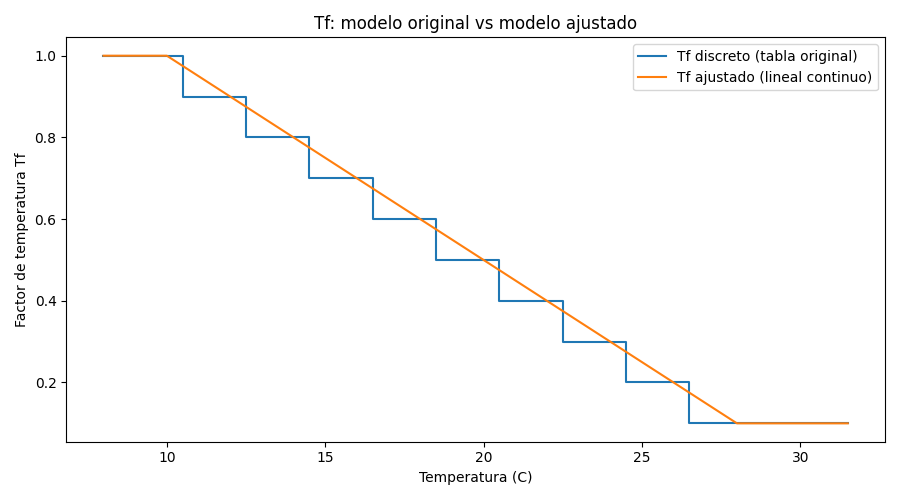
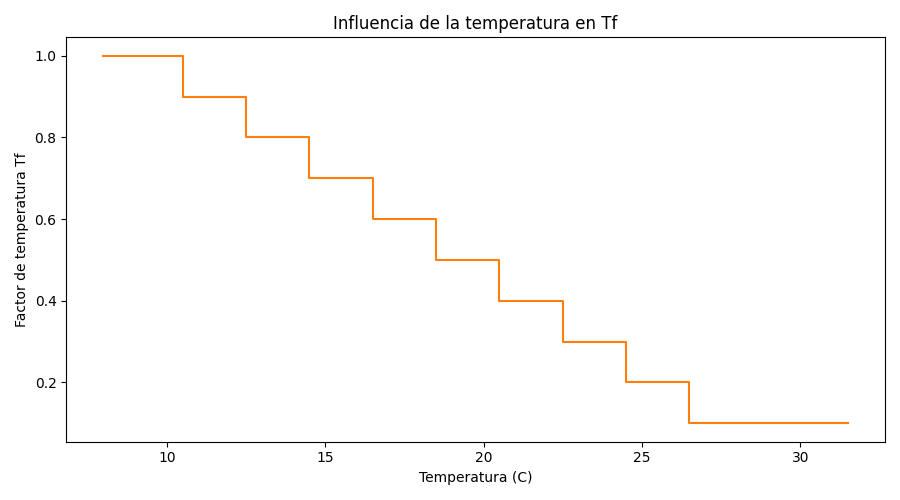
fix(unidad1): usar un unico modelo con la formula y tabla dadas por el docente

diff --git a/Unidad1/practica01/view.py b/Unidad1/practica01/view.py
@@ -6,7 +6,7 @@ recibe los HourRecord ya procesados y los presenta.
 import matplotlib.pyplot as plt
 import numpy as np
 
-from model import temperature_factor_discrete, temperature_factor_continuous
+from model import temperature_factor
 
 
 class ConsoleView:
@@ -25,23 +25,19 @@ class ConsoleView:
 
 
 class ChartView:
-    """Genera las graficas que pide la guia (punto 6: 'Graficas ... agregar')."""
+    """Genera las graficas que pide la guia (punto 6)."""
 
     @staticmethod
-    def plot_index(records_by_label, output_file):
-        """
-        Grafica la evolucion del indice I a lo largo del dia, comparando
-        el modelo original contra el ajustado, con lineas punteadas en
-        los umbrales de la tabla de reglas (0.40 / 0.60 / 0.75).
-        """
+    def plot_index(records, output_file):
+        """Grafica la evolucion del indice I a lo largo del dia, con los umbrales de la tabla de reglas."""
+        hours = [r.hour for r in records]
+        indices = [r.index for r in records]
+
         plt.figure(figsize=(9, 5))
-        for label, records in records_by_label.items():
-            hours = [r.hour for r in records]
-            indices = [r.index for r in records]
-            plt.plot(hours, indices, marker="o", label=label)
-        plt.axhline(0.40, linestyle="--", linewidth=0.8, color="gray")
-        plt.axhline(0.60, linestyle="--", linewidth=0.8, color="gray")
-        plt.axhline(0.75, linestyle="--", linewidth=0.8, color="gray")
+        plt.plot(hours, indices, marker="o", color="tab:blue", label="Indice I")
+        plt.axhline(0.40, linestyle="--", linewidth=0.8, color="gray", label="Umbral 0.40")
+        plt.axhline(0.60, linestyle="--", linewidth=0.8, color="gray", label="Umbral 0.60")
+        plt.axhline(0.75, linestyle="--", linewidth=0.8, color="gray", label="Umbral 0.75")
         plt.xlabel("Hora")
         plt.ylabel("Indice I")
         plt.title("Evolucion del indice de probabilidad de lluvia")
@@ -52,21 +48,15 @@ class ChartView:
 
     @staticmethod
     def plot_temperature_factor(output_file):
-        """
-        Grafica Tf en funcion de la temperatura para comparar visualmente
-        el modelo discreto (escalones, tabla original) contra el modelo
-        ajustado (recta continua). Muestra por que el ajuste importa.
-        """
+        """Grafica Tf en funcion de la temperatura, para ver la influencia de este parametro en el indice."""
         temps = np.arange(8, 32, 0.5)
-        tf_discrete = [temperature_factor_discrete(t) for t in temps]
-        tf_continuous = [temperature_factor_continuous(t) for t in temps]
+        tf_values = [temperature_factor(t) for t in temps]
+
         plt.figure(figsize=(9, 5))
-        plt.step(temps, tf_discrete, where="post", label="Tf discreto (tabla original)")
-        plt.plot(temps, tf_continuous, label="Tf ajustado (lineal continuo)")
+        plt.step(temps, tf_values, where="post", color="tab:orange")
         plt.xlabel("Temperatura (C)")
         plt.ylabel("Factor de temperatura Tf")
-        plt.title("Tf: modelo original vs modelo ajustado")
-        plt.legend()
+        plt.title("Influencia de la temperatura en Tf")
         plt.tight_layout()
         plt.savefig(output_file)
         plt.close()

diff --git a/Unidad1/practica01/model.py b/Unidad1/practica01/model.py
@@ -5,8 +5,8 @@ Formula entregada en la guia:
     I = 0.5*H + 0.3*N + 0.2*Tf
 
 donde H = humedad normalizada, N = nubosidad normalizada y Tf = factor de
-temperatura (obtenido de una tabla de referencia). Este modulo no sabe nada
-de consola ni de graficas: solo calcula.
+temperatura (obtenido de la tabla de referencia de la guia). Este modulo no
+sabe nada de consola ni de graficas: solo calcula.
 """
 
 # Tabla de factor de temperatura entregada por la guia de la practica.
@@ -24,7 +24,7 @@ TEMPERATURE_TABLE = [
     (28, 0.10),
 ]
 
-# Pesos fijos de la formula I = W_H*H + W_N*N + W_TF*Tf
+# Pesos fijos de la formula I = W_H*H + W_N*N + W_TF*Tf (dados por la guia).
 W_H, W_N, W_TF = 0.5, 0.3, 0.2
 
 
@@ -33,11 +33,12 @@ def normalize(value):
     return value / 100
 
 
-def temperature_factor_discrete(temp):
+def temperature_factor(temp):
     """
-    Modelo ORIGINAL: busca Tf recorriendo la tabla tal cual la entrega la guia.
-    Si la temperatura cae entre dos filas de la tabla (ej. 17C), se usa el
-    siguiente escalon hacia arriba (comportamiento tipo "tabla de reglas").
+    Busca Tf en TEMPERATURE_TABLE siguiendo la 'tabla de reglas' de la guia
+    (<=10C -> 1.00, >=28C -> 0.10). Para una temperatura que no esta en la
+    tabla (ej. 17C), se toma el siguiente escalon igual o mayor, que es como
+    esta redactada la tabla de reglas original.
     """
     if temp <= TEMPERATURE_TABLE[0][0]:
         return TEMPERATURE_TABLE[0][1]
@@ -49,27 +50,14 @@ def temperature_factor_discrete(temp):
     return TEMPERATURE_TABLE[-1][1]
 
 
-def temperature_factor_continuous(temp):
-    """
-    Modelo AJUSTADO (punto 5 de la guia: "ajuste el modelo y llene de nuevo
-    la tabla"). Se observa que la tabla original es en realidad una recta:
-    Tf baja 0.05 por cada grado que sube la temperatura desde 10C.
-    Esto permite calcular Tf para CUALQUIER temperatura, no solo las que
-    aparecen en la tabla (ej. 15C o 17C), sin perder los valores limite.
-    """
-    tf = 1.00 - 0.05 * (temp - 10)
-    return min(1.00, max(0.10, tf))  # se mantiene dentro de [0.10, 1.00]
-
-
-def compute_index(humidity, cloudiness, temp, tf_function):
+def compute_index(humidity, cloudiness, temp):
     """
     Aplica la formula del indice para una hora puntual.
-    tf_function decide si se usa el modelo discreto o el ajustado.
     Devuelve los 4 valores (H, N, Tf, Indice) para poder mostrarlos despues.
     """
     h = normalize(humidity)
     n = normalize(cloudiness)
-    tf = tf_function(temp)
+    tf = temperature_factor(temp)
     index = W_H * h + W_N * n + W_TF * tf
     return h, n, tf, index
 
@@ -99,10 +87,10 @@ class HourRecord:
         self.temp = temp
         self.h = self.n = self.tf = self.index = self.state = None
 
-    def process(self, tf_function):
+    def process(self):
         """Calcula H, N, Tf, indice y estado para esta hora y los guarda en el objeto."""
         self.h, self.n, self.tf, self.index = compute_index(
-            self.humidity, self.cloudiness, self.temp, tf_function
+            self.humidity, self.cloudiness, self.temp
         )
         self.state = classify_state(self.index)
         return self

diff --git a/Unidad1/practica01/main.py b/Unidad1/practica01/main.py
@@ -2,31 +2,21 @@
 Punto de entrada: orquesta todo el patron MVC.
 
 Flujo:
-1. El Controller toma los datos crudos (BASE_DATA) y los procesa dos veces:
-   una con el modelo original (tabla discreta) y otra con el ajustado
-   (formula lineal continua).
-2. La View muestra ambas tablas en consola y genera las graficas en PNG.
+1. El Controller toma los datos crudos (BASE_DATA) y le pide al modelo que
+   calcule H, N, Tf, indice y estado para cada hora.
+2. La View muestra la tabla de resultados en consola y genera las graficas en PNG.
 """
-from model import temperature_factor_discrete, temperature_factor_continuous
 from controller import RainSimulationController, BASE_DATA
 from view import ConsoleView, ChartView
 
 
 def main():
     controller = RainSimulationController(BASE_DATA)
+    records = controller.run()
 
-    # Primera pasada: Tf tomado tal cual de la tabla de la guia (discreto).
-    original_records = controller.run(temperature_factor_discrete)
-    # Segunda pasada: Tf calculado con la formula lineal ajustada.
-    adjusted_records = controller.run(temperature_factor_continuous)
+    ConsoleView.show_table("Indice de probabilidad de lluvia por hora", records)
 
-    ConsoleView.show_table("Modelo original (Tf por tabla discreta)", original_records)
-    ConsoleView.show_table("Modelo ajustado (Tf por interpolacion lineal)", adjusted_records)
-
-    ChartView.plot_index(
-        {"Original": original_records, "Ajustado": adjusted_records},
-        "indice_lluvia.png",
-    )
+    ChartView.plot_index(records, "indice_lluvia.png")
     ChartView.plot_temperature_factor("factor_temperatura.png")
 
 

diff --git a/Unidad1/practica01/controller.py b/Unidad1/practica01/controller.py
@@ -20,15 +20,11 @@ BASE_DATA = [
 
 
 class RainSimulationController:
-    """Recibe los datos crudos y los procesa con la funcion Tf que se le indique."""
+    """Recibe los datos crudos y le pide al modelo que procese cada hora."""
 
     def __init__(self, data):
         self.data = data
 
-    def run(self, tf_function):
-        """
-        Crea un HourRecord por cada fila y lo procesa.
-        tf_function = temperature_factor_discrete o temperature_factor_continuous,
-        segun que version del modelo se quiera correr.
-        """
-        return [HourRecord(*row).process(tf_function) for row in self.data]
+    def run(self):
+        """Crea un HourRecord por cada fila de BASE_DATA y lo procesa."""
+        return [HourRecord(*row).process() for row in self.data]

diff --git a/Unidad1/practica01/README.md b/Unidad1/practica01/README.md
@@ -19,10 +19,7 @@ I = 0.5*H + 0.3*N + 0.2*Tf
 | 0.60 ≤ I < 0.75 | Lluvia probable |
 | I ≥ 0.75 | Lluvia |
 
-La guía pide calcular la tabla dos veces: una con el modelo original y otra con el modelo "ajustado". Se observó que la tabla de `Tf` de la guía es en realidad una recta (`Tf = 1.00 - 0.05*(T-10)`), así que:
-
-- **Modelo original** (`temperature_factor_discrete`): usa la tabla tal cual, por escalones.
-- **Modelo ajustado** (`temperature_factor_continuous`): usa la fórmula lineal, lo que permite calcular `Tf` para cualquier temperatura (incluidas las que no están en la tabla, como 15 °C o 17 °C).
+Para temperaturas que no están exactamente en la tabla de `Tf` (ej. 15 °C, 17 °C), se usa el siguiente escalón igual o mayor, siguiendo la misma lógica de "tabla de reglas" con la que está redactada la tabla original (`≤10°C`, `≥28°C`).
 
 ## Arquitectura (MVC)
 
@@ -31,7 +28,7 @@ La guía pide calcular la tabla dos veces: una con el modelo original y otra con
 | `model.py` | Fórmula del índice, tabla de temperatura y clasificación de estado. Sin I/O. |
 | `controller.py` | Datos de entrada (la tabla de la guía) y orquestación: le pide al modelo que procese cada hora. |
 | `view.py` | Tabla por consola y gráficas (`matplotlib`). |
-| `main.py` | Arma el flujo: controller → model → view, para el modelo original y el ajustado. |
+| `main.py` | Arma el flujo: controller → model → view. |
 
 ## Cómo correr
 
@@ -40,11 +37,9 @@ pip install -r ../../requirements.txt
 python3 main.py
 ```
 
-Genera `indice_lluvia.png` (evolución del índice durante el día) y `factor_temperatura.png` (Tf discreto vs. ajustado).
+Genera `indice_lluvia.png` (evolución del índice durante el día) y `factor_temperatura.png` (influencia de la temperatura en Tf).
 
 ## Resultados
-
-**Modelo original (Tf por tabla discreta):**
 
 | Hora | Humedad | Nubosidad | Temp | H | N | Tf | Índice | Estado |
 |---|---|---|---|---|---|---|---|---|
@@ -57,22 +52,6 @@ Genera `indice_lluvia.png` (evolución del índice durante el día) y `factor_te
 | 18:00 | 92 | 95 | 16 | 0.92 | 0.95 | 0.70 | 0.89 | Lluvia |
 | 20:00 | 88 | 90 | 17 | 0.88 | 0.90 | 0.60 | 0.83 | Lluvia |
 | 22:00 | 80 | 75 | 15 | 0.80 | 0.75 | 0.70 | 0.77 | Lluvia |
-
-**Modelo ajustado (Tf por interpolación lineal):**
-
-| Hora | Humedad | Nubosidad | Temp | H | N | Tf | Índice | Estado |
-|---|---|---|---|---|---|---|---|---|
-| 06:00 | 65 | 40 | 14 | 0.65 | 0.40 | 0.80 | 0.60 | Lluvia probable |
-| 08:00 | 70 | 50 | 16 | 0.70 | 0.50 | 0.70 | 0.64 | Lluvia probable |
-| 10:00 | 68 | 45 | 18 | 0.68 | 0.45 | 0.60 | 0.59 | Baja posibilidad |
-| 12:00 | 60 | 30 | 22 | 0.60 | 0.30 | 0.40 | 0.47 | Baja posibilidad |
-| 14:00 | 75 | 70 | 20 | 0.75 | 0.70 | 0.50 | 0.68 | Lluvia probable |
-| 16:00 | 85 | 85 | 18 | 0.85 | 0.85 | 0.60 | 0.80 | Lluvia |
-| 18:00 | 92 | 95 | 16 | 0.92 | 0.95 | 0.70 | 0.89 | Lluvia |
-| 20:00 | 88 | 90 | 17 | 0.88 | 0.90 | 0.65 | 0.84 | Lluvia |
-| 22:00 | 80 | 75 | 15 | 0.80 | 0.75 | 0.75 | 0.78 | Lluvia |
-
-La única diferencia está en 20:00 y 22:00, horas con temperaturas (17 °C, 15 °C) que no estaban en la tabla original: el modelo discreto las redondea hacia el siguiente escalón, el ajustado las calcula de forma exacta.
 
 ## Preguntas de control
 
